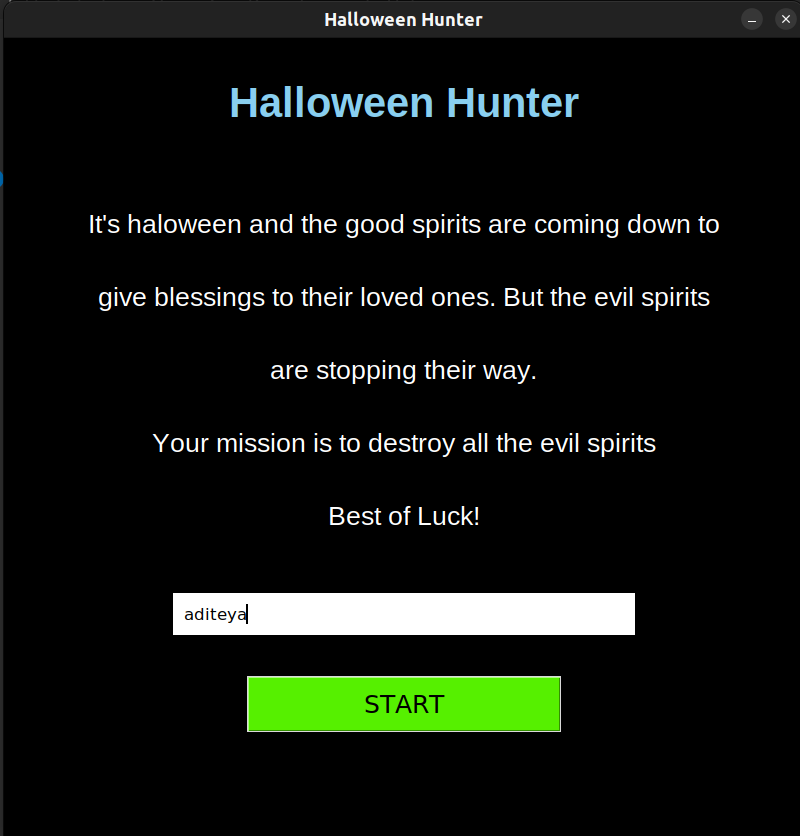
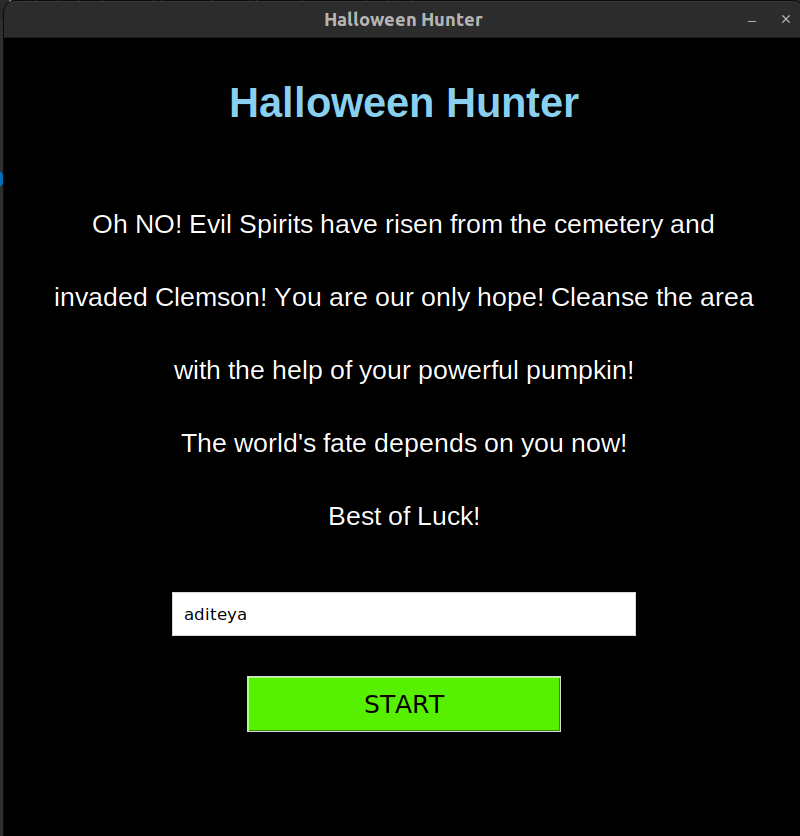
Updated intro screen message

diff --git a/src/app.py b/src/app.py
@@ -47,16 +47,16 @@ while running:
         description_frame = Frame(story_frame, padx=20, pady=20, bg="#000000")
         description_frame.grid(row=1, column=0)
 
-        line_1_text = "It's haloween and the good spirits are coming down to"
+        line_1_text = "Oh NO! Evil Spirits have risen from the cemetery and"
         label_factory.getLabel(AppConfig.LABEL_NORMAL, description_frame, line_1_text).grid(row=0, column=0)
 
-        line_2_text = "give blessings to their loved ones. But the evil spirits"
+        line_2_text = "invaded Clemson! You are our only hope! Cleanse the area"
         label_factory.getLabel(AppConfig.LABEL_NORMAL, description_frame, line_2_text).grid(row=1, column=0)
 
-        line_3_text = "are stopping their way."
+        line_3_text = "with the help of your powerful pumpkin!"
         label_factory.getLabel(AppConfig.LABEL_NORMAL, description_frame, line_3_text).grid(row=2, column=0)
 
-        line_4_text = "Your mission is to destroy all the evil spirits"
+        line_4_text = "The world's fate depends on you now!"
         label_factory.getLabel(AppConfig.LABEL_NORMAL, description_frame, line_4_text).grid(row=3, column=0)
 
         line_5_text = "Best of Luck!"
